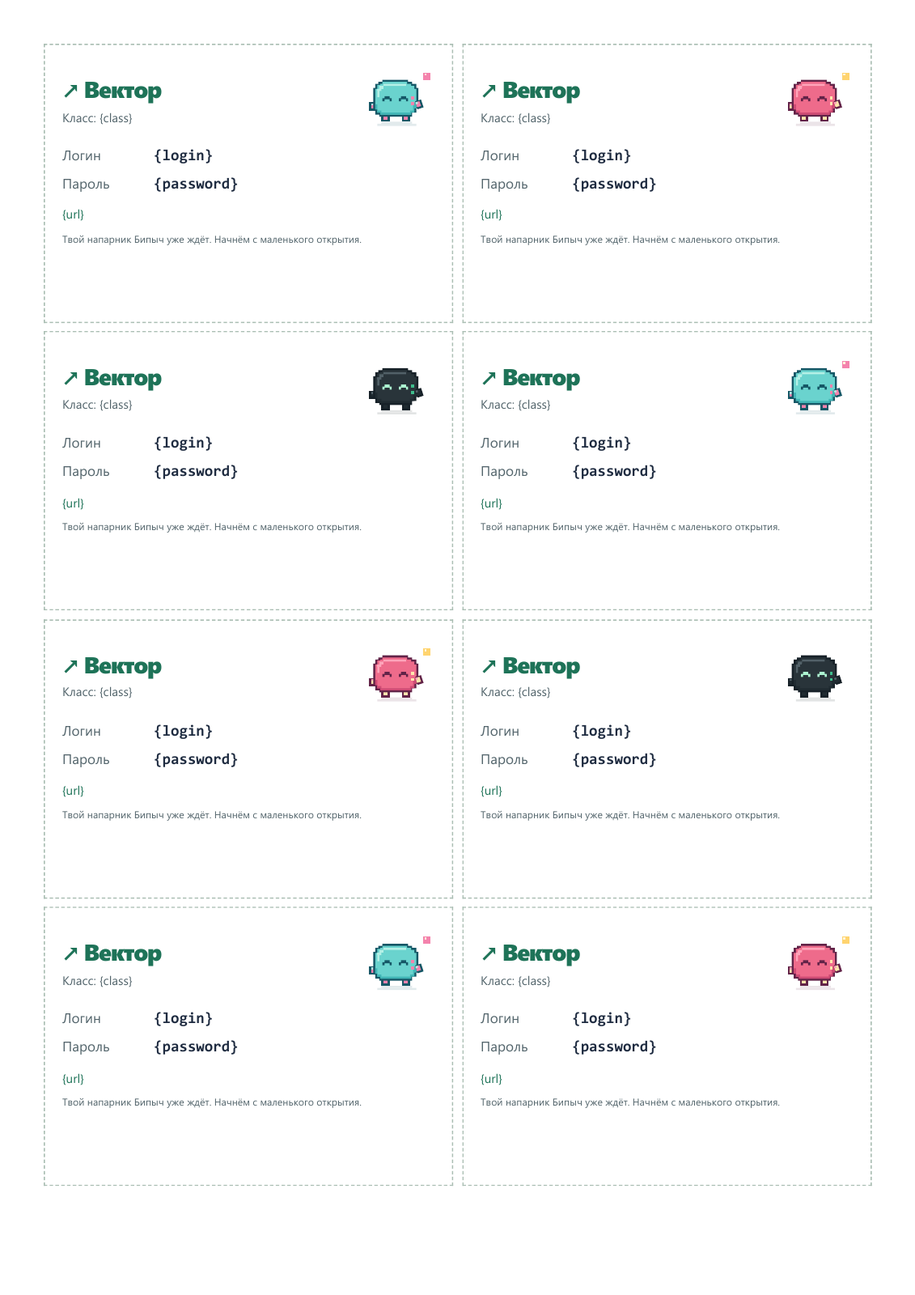
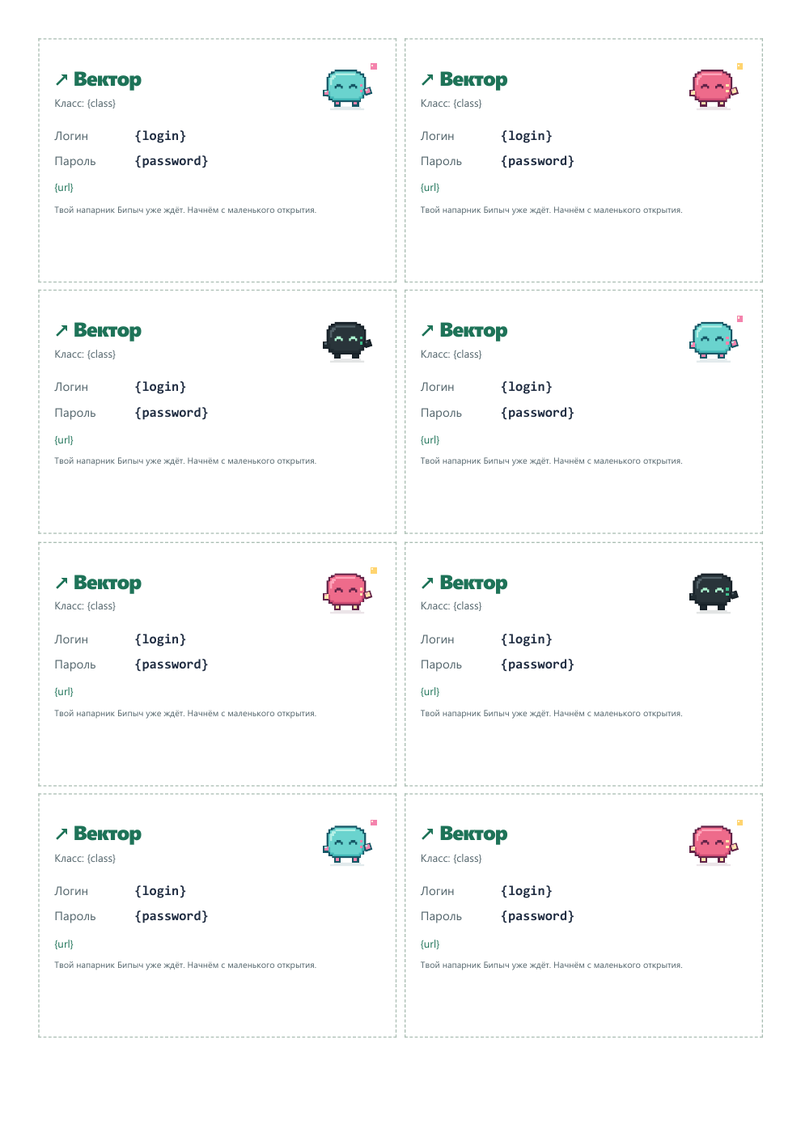
Refine thinking and pride motion with pixel headwear and open net mesh

diff --git a/styles/drobik.css b/styles/drobik.css
@@ -1,5 +1,5 @@
 /* Бипыч: isolated styles; do not override the host application. */
-.bipych{--bipych-size:96px;--bipych-hop:-7px;--bipych-accent:#F483AD;--bipych-outline:#155766;display:inline-flex;position:relative;vertical-align:middle;flex-direction:column;align-items:center;width:var(--bipych-size);max-width:100%;isolation:isolate;line-height:1.3;font-family:inherit}
+.bipych{--bipych-size:96px;--bipych-hop:-7px;--bipych-think-speed:3.6s;--bipych-proud-speed:3.2s;--bipych-accent:#F483AD;--bipych-outline:#155766;display:inline-flex;position:relative;vertical-align:middle;flex-direction:column;align-items:center;width:var(--bipych-size);max-width:100%;isolation:isolate;line-height:1.3;font-family:inherit}
 .bipych *{box-sizing:border-box}
 .bipych-picture,.bipych-svg{display:block;width:100%;aspect-ratio:1;overflow:visible}
 .bipych-svg [hidden]{display:none}
@@ -7,7 +7,7 @@
 .bipych-actor{transform-origin:50% 100%}
 .bipych-shadow{opacity:.12}
 [data-skin=orbit] .bipych[data-color=black] .bipych-outline{stroke:#77909A;stroke-width:1}
-.bipych-blush,.bipych-question,.bipych-zzz,.bipych-confetti,.bipych-eyes-happy,.bipych-eyes-sleep,.bipych-net{display:none}
+.bipych-blush,.bipych-question,.bipych-zzz,.bipych-thought,.bipych-pride,.bipych-confetti,.bipych-eyes-happy,.bipych-eyes-sleep,.bipych-net{display:none}
 .bipych-hand-right{transform-box:view-box;transform-origin:116px 90px}
 .bipych-net[data-equipped=true]{display:block}
 .bipych[data-state=idle] .bipych-actor{animation:bipych-breathe 4s steps(3,end) infinite}
@@ -16,15 +16,24 @@
 .bipych[data-state=happy] .bipych-eyes-happy,.bipych[data-state=celebrate] .bipych-eyes-happy,.bipych[data-state=proud] .bipych-eyes-happy,.bipych[data-state=sleep] .bipych-eyes-sleep{display:block}
 .bipych[data-state=happy] .bipych-actor{animation:bipych-hop 1.4s steps(4,end) infinite}
 .bipych[data-state=happy] .bipych-hand-right{transform:translateY(-8px) rotate(-18deg)}
-.bipych[data-state=thinking] .bipych-eyes-normal{transform:translate(2px,-2px)}
-.bipych[data-state=thinking] .bipych-hand-right{transform:translate(-8px,-18px) rotate(-25deg)}
-.bipych[data-state=thinking] .bipych-satellite{animation:bipych-pixel-think 1.8s steps(3,end) infinite}
+.bipych[data-state=thinking] .bipych-actor{transform:translateY(-1px) rotate(-2deg);animation:bipych-think-body var(--bipych-think-speed) steps(5,end) infinite}
+.bipych[data-state=thinking] .bipych-eyes-normal{transform:translate(-3px,-3px);animation:bipych-think-eyes var(--bipych-think-speed) steps(1,end) infinite}
+.bipych[data-state=thinking] .bipych-hand-left{transform:translate(10px,-12px);animation:bipych-think-hand var(--bipych-think-speed) steps(4,end) infinite}
+.bipych[data-state=thinking] .bipych-hand-right{transform:translate(2px,-3px)}
+.bipych[data-state=thinking] .bipych-satellite{animation:bipych-pixel-think var(--bipych-think-speed) steps(4,end) infinite}
+.bipych[data-state=thinking] .bipych-thought{display:block}
+.bipych-thought-dot{animation:bipych-thought var(--bipych-think-speed) steps(3,end) infinite;transform-box:fill-box;transform-origin:center}
+.bipych-thought-dot-1{animation-delay:-.4s}.bipych-thought-dot-2{animation-delay:-.8s}
 .bipych[data-state=confused] .bipych-actor{transform:rotate(-7deg)}
 .bipych[data-state=confused] .bipych-question{display:block;animation:bipych-question 2s steps(2,end) infinite}
 .bipych[data-state=confused] .bipych-eyes-normal{transform:translateY(-3px)}
-.bipych[data-state=proud] .bipych-actor{transform:translateY(-3px)}
-.bipych[data-state=proud] .bipych-hand-left{transform:translate(-2px,-10px) rotate(30deg)}
+.bipych[data-state=proud] .bipych-actor{transform:translateY(-3px);animation:bipych-proud-body var(--bipych-proud-speed) steps(5,end) infinite}
+.bipych[data-state=proud] .bipych-hand-left{transform:translate(-2px,-16px) rotate(8deg);animation:bipych-proud-hand var(--bipych-proud-speed) steps(5,end) infinite}
 .bipych[data-state=proud] .bipych-hand-right{transform:translate(2px,-10px) rotate(-30deg)}
+.bipych[data-state=proud] .bipych-pride{display:block}
+.bipych-pride-star{animation:bipych-proud-glint var(--bipych-proud-speed) steps(2,end) infinite;transform-box:fill-box;transform-origin:center}
+.bipych-pride-star-1{animation-delay:-.3s}
+.bipych[data-state=proud] .bipych-satellite{animation:bipych-proud-pixel var(--bipych-proud-speed) steps(4,end) infinite}
 .bipych[data-state=shy] .bipych-blush{display:block}
 .bipych[data-state=shy] .bipych-eyes-normal{transform:translate(-4px,4px)}
 .bipych[data-state=shy] .bipych-actor{transform:rotate(4deg)}
@@ -46,7 +55,7 @@
 .bipych[data-state=sleep] .bipych-zzz{display:block}
 .bipych[data-state=sleep] .bipych-satellite{opacity:.35;animation:none}
 .bipych-satellite{animation:bipych-float 3s steps(4,end) infinite}
-.bipych[data-age=senior]{--bipych-hop:-3px}
+.bipych[data-age=senior]{--bipych-hop:-3px;--bipych-think-speed:4s;--bipych-proud-speed:4s}
 .bipych[data-age=senior] .bipych-actor{animation-duration:4s}
 .bipych-charge{display:flex;align-items:center;justify-content:center;gap:6px;width:100%;color:var(--ink,#1E2B40);font-size:11px;font-weight:700;line-height:1.3}
 .bipych-charge-cells{display:grid;grid-template-columns:repeat(var(--bipych-goal,5),minmax(0,1fr));gap:2px;flex:1;max-width:96px}
@@ -62,9 +71,17 @@
 @keyframes bipych-hop{0%,65%,100%{transform:translateY(0)}30%{transform:translateY(var(--bipych-hop))}}
 @keyframes bipych-float{0%,100%{transform:translateY(0)}50%{transform:translateY(-4px)}}
 @keyframes bipych-pixel-think{0%,100%{transform:translate(0,0);opacity:1}50%{transform:translate(-4px,-4px);opacity:.6}}
+@keyframes bipych-think-body{0%,100%{transform:translate(0,0) rotate(-2deg)}25%{transform:translate(-2px,-2px) rotate(-2deg)}55%{transform:translate(2px,-1px) rotate(2deg)}80%{transform:translate(0,0) rotate(0)}}
+@keyframes bipych-think-eyes{0%,20%,100%{transform:translate(-3px,-3px)}35%,65%{transform:translate(3px,-4px)}80%,90%{transform:translate(0,0)}}
+@keyframes bipych-think-hand{0%,100%{transform:translate(10px,-12px) rotate(-8deg)}25%,45%{transform:translate(12px,-16px) rotate(6deg)}65%,80%{transform:translate(8px,-10px) rotate(-4deg)}}
+@keyframes bipych-thought{0%,10%{opacity:.15;transform:translateY(2px)}30%,65%{opacity:1;transform:translateY(0)}90%,100%{opacity:.15;transform:translateY(-2px)}}
+@keyframes bipych-proud-body{0%,100%{transform:translateY(-2px)}20%,40%{transform:translateY(-6px)}55%{transform:translateY(-3px) rotate(-2deg)}70%{transform:translateY(-2px) rotate(2deg)}85%{transform:translateY(-3px)}}
+@keyframes bipych-proud-hand{0%,100%{transform:translate(-2px,-6px) rotate(18deg)}20%,45%{transform:translate(-2px,-24px) rotate(8deg)}60%{transform:translate(-2px,-6px) rotate(18deg)}75%{transform:translate(-2px,-16px) rotate(8deg)}}
+@keyframes bipych-proud-glint{0%,10%,65%,100%{opacity:0;transform:translateY(2px) scale(.5)}20%,45%{opacity:1;transform:translateY(-2px) scale(1)}}
+@keyframes bipych-proud-pixel{0%,100%{transform:translateY(0)}20%,40%{transform:translateY(-8px)}65%{transform:translateY(-2px)}}
 @keyframes bipych-question{0%,100%{transform:translateY(0)}50%{transform:translateY(-3px)}}
 @keyframes bipych-catch{0%,100%{transform:translate(0,0)}45%{transform:translate(2px,-4px)}}
 @keyframes bipych-dance{0%,100%{transform:translateY(0) rotate(-3deg)}25%{transform:translateY(var(--bipych-hop)) rotate(3deg)}60%{transform:translateY(0) rotate(3deg)}80%{transform:translateY(var(--bipych-hop)) rotate(-3deg)}}
 @keyframes bipych-confetti{0%{transform:translateY(-3px);opacity:0}20%{opacity:1}85%{opacity:1}100%{transform:translateY(10px) rotate(90deg);opacity:0}}
 @keyframes bipych-sleep{0%,100%{transform:translateY(4px) rotate(5deg)}50%{transform:translateY(2px) rotate(5deg)}}
-@media(prefers-reduced-motion:reduce){.bipych *,.bipych *::before,.bipych *::after{animation:none!important;transition:none!important}.bipych-confetti{opacity:1}.bipych-spark{opacity:1}}
+@media(prefers-reduced-motion:reduce){.bipych *,.bipych *::before,.bipych *::after{animation:none!important;transition:none!important}.bipych-confetti,.bipych-spark,.bipych-thought-dot,.bipych-pride-star{opacity:1}}

diff --git a/content/drobik.js b/content/drobik.js
@@ -70,20 +70,34 @@
     var hats = {
       'hat-cap': path('M38 30H48V22H76V26H92V34H108V38H38Z', accent) + rect(48, 26, 28, 6, cream),
       'hat-beanie': path('M40 34V24H46V18H84V24H92V34Z', '#B39BE3') + rect(36, 30, 60, 8, ink) + rect(60, 10, 12, 8, accent),
-      'hat-bucket': path('M44 20H86L90 32H98V38H34V32H40Z', '#83B9DC') + rect(46, 26, 38, 4, cream),
+      'hat-bucket': path('M44 16H84V20H88V28H92V32H100V40H32V32H36V28H40V20H44Z', ink) +
+        path('M44 20H84V28H88V32H92V36H40V32H44Z', '#83B9DC') + rect(44, 28, 40, 4, cream),
       'hat-crown': path('M40 22H48V28H56V18H64V28H72V18H80V28H88V22H96V38H40Z', '#F2CC63') + rect(60, 30, 8, 4, accent),
       'hat-bow': path('M42 24H54V28H66V24H80V40H66V36H54V40H42Z', accent) + rect(56, 28, 8, 8, ink),
       'hat-headphones': path('M24 58V32H32V24H100V32H112V60H104V36H98V32H38V36H32V58Z', ink) + rect(20, 50, 12, 22, accent) + rect(104, 50, 12, 22, accent),
       'hat-beret': path('M34 30H42V22H54V18H88V22H98V32H90V38H42V34H34Z', '#D26C73') + rect(64, 12, 8, 8, ink),
-      'hat-leaf': path('M62 34V22H70V14H94V22H86V30H74V38Z', '#7EA56F') + rect(62, 30, 8, 8, ink),
-      'hat-graduate': path('M28 24L66 12L104 24L66 36Z', ink) + rect(48, 30, 36, 8, ink) + rect(98, 24, 4, 22, '#EDBF50') + rect(94, 44, 12, 6, '#EDBF50'),
-      'hat-captain': path('M34 24H42V18H90V24H98V32H90V38H40V32H34Z', cream) + rect(38, 30, 56, 8, ink) + rect(62, 22, 8, 8, '#E7BC4C')
+      'hat-leaf': path('M60 40V24H68V16H76V12H96V24H88V28H80V32H72V40Z', ink) +
+        path('M64 32V24H72V20H80V16H92V20H84V24H76V28H68V32Z', '#8DBB79'),
+      'hat-graduate': rect(48, 30, 40, 10, ink) +
+        path('M64 8H72V12H84V16H96V20H108V28H96V32H84V36H72V40H64V36H52V32H40V28H28V20H40V16H52V12H64Z', ink) +
+        path('M64 12H72V16H84V20H96V24H84V28H72V32H64V28H52V24H40V20H52V16H64Z', '#567B7D') +
+        rect(92, 28, 4, 16, '#EDBF50') + rect(88, 44, 8, 8, '#EDBF50'),
+      'hat-captain': path('M40 12H92V16H100V28H96V36H88V40H40V36H32V20H36V16H40Z', ink) +
+        path('M40 20H44V16H88V20H96V26H40Z', cream) + rect(40, 28, 52, 8, ink) +
+        path('M60 20H72V24H68V28H64V24H60Z', '#E7BC4C')
     };
     return hats[id] || '';
   }
   function svg(p, map, uid) {
     var netIndex = COSMETICS.filter(function (c) { return c.slot === 'net'; }).findIndex(function (c) { return c.id === map.net; });
     var netColor = NETS[netIndex] || NETS[0];
+    var squareNet = map.net === 'net-square';
+    var netRim = squareNet
+      ? 'M100 36H132V68H100ZM104 40H128V64H104Z'
+      : 'M110 32H122V36H126V40H130V60H126V64H122V68H110V64H106V60H102V40H106V36H110ZM110 36H122V40H126V60H122V64H110V60H106V40H110Z';
+    var netMesh = squareNet
+      ? 'M112 40H113V64H112ZM119 40H120V64H119ZM108 46H124V47H108ZM108 57H124V58H108Z'
+      : 'M112 38H113V62H112ZM119 38H120V62H119ZM108 44H124V45H108ZM108 55H124V56H108Z';
     var satellite = map.antenna || (map.screen === 'screen-black' ? '' : 'pixel-sun');
     var limb = map.screen === 'screen-black' ? p[3] : p[4];
     var satColor = PIXELS[satellite] || p[4];
@@ -99,7 +113,6 @@
       '<g class="bipych-actor">' +
       '<g class="bipych-foot bipych-foot-left">' + rect(40, 102, 16, 14, p[0]) + rect(44, 104, 8, 8, limb) + '</g>' +
       '<g class="bipych-foot bipych-foot-right">' + rect(80, 102, 16, 14, p[0]) + rect(84, 104, 8, 8, limb) + '</g>' +
-      '<g class="bipych-hand bipych-hand-left">' + rect(16, 78, 12, 16, p[0]) + rect(20, 80, 8, 10, limb) + rect(20, 80, 4, 4, p[2]) + '</g>' +
       path(OUTLINE, p[0], 'bipych-outline') + path(INSIDE, p[1]) +
       path('M32 68V52H36V46H44V42H88V46H44V50H40V56H36V68Z', p[2]) +
       path('M32 88V94H40V98H96V94H102V78H108V90H104V98H98V102H38V98H32V92H28V82H32Z', p[3]) +
@@ -109,16 +122,22 @@
       '<g class="bipych-eyes bipych-eyes-sleep">' + sleeping + '</g>' +
       '<g class="bipych-blush">' + rect(36, 80, 10, 4, p[4]) + rect(88, 80, 10, 4, p[4]) + '</g>' +
       rect(98, 66, 6, 6, p[4]) + rect(98, 78, 6, 6, p[4]) +
+      '<g class="bipych-hand bipych-hand-left">' + rect(16, 78, 12, 16, p[0]) + rect(20, 80, 8, 10, limb) + rect(20, 80, 4, 4, p[2]) + '</g>' +
+      '<g class="bipych-hat">' + hat(map.hat, p) + '</g>' +
       '<g class="bipych-hand bipych-hand-right">' +
       '<g class="bipych-net"' + (map.net ? ' data-equipped="true"' : '') + '>' +
-      rect(114, 62, 4, 30, netColor, 'bipych-net-handle') +
-      path('M108 36H124V40H128V44H132V60H128V64H124V68H108V64H104V60H100V44H104V40H108Z', netColor, 'bipych-net-rim') +
-      path('M108 40H124V44H128V60H124V64H108V60H104V44H108Z', p[2]) +
-      path('M110 42H112V62H110ZM120 42H122V62H120ZM106 46H126V48H106ZM106 56H126V58H106Z', netColor, 'bipych-net-mesh') + '</g>' +
+      rect(114, 64, 4, 28, '#806247', 'bipych-net-handle') +
+      '<path d="' + netRim + '" fill="' + netColor + '" fill-rule="evenodd" stroke="' + p[0] + '" stroke-width="1" class="bipych-net-rim"/>' +
+      '<path d="' + netMesh + '" fill="#6A9284" opacity=".65" class="bipych-net-mesh"/></g>' +
       rect(108, 82, 16, 16, p[0], 'bipych-grip') + rect(111, 84, 10, 10, limb) + rect(112, 84, 4, 4, p[2]) + '</g>' +
-      '<g class="bipych-hat">' + hat(map.hat, p) + '</g>' +
       '<g class="bipych-question">' + path('M12 32H28V36H32V44H24V52H18V42H26V38H12ZM18 58H24V64H18Z', p[4]) + '</g>' +
       '<g class="bipych-zzz">' + path('M100 16H116V20H112V24H108V28H116V32H100V28H104V24H108V20H100Z', p[4]) + '</g>' +
+      '<g class="bipych-thought">' + rect(16, 28, 4, 4, p[0], 'bipych-thought-dot bipych-thought-dot-0') +
+      rect(20, 20, 6, 6, p[4], 'bipych-thought-dot bipych-thought-dot-1') +
+      rect(26, 10, 8, 8, p[0], 'bipych-thought-dot bipych-thought-dot-2') + '</g>' +
+      '<g class="bipych-pride">' +
+      path('M10 38H14V42H18V46H14V50H10V46H6V42H10Z', '#E6B74F', 'bipych-pride-star bipych-pride-star-0') +
+      path('M26 16H30V20H34V24H30V28H26V24H22V20H26Z', '#E6B74F', 'bipych-pride-star bipych-pride-star-1') + '</g>' +
       '</g>' +
       '<g class="bipych-satellite"' + (!satellite ? ' hidden="hidden"' : '') + '>' +
       (satellite === 'pixel-star'

diff --git a/assets/drobik/demo.js b/assets/drobik/demo.js
@@ -5,9 +5,9 @@
   var descriptions = [
     'Осматривается и моргает. Всё спокойно.',
     'Подпрыгивает: получилось!',
-    'Ищет идею. Пиксель-спутник тоже задумался.',
+    'Смотрит по сторонам, чешет щёку и собирает мысли по пикселям.',
     'Кажется, что-то не сходится. Посмотрим ещё раз?',
-    'Руки в боки. Хорошо поработали!',
+    'Выпрямился, поднял кулачок: вот это мы разобрались!',
     'Бип… Я тоже иногда путаюсь.',
     'Заметил жучка и приготовил сачок.',
     'Вот это находка! Можно немного потанцевать.',
@@ -68,6 +68,8 @@
     var holder = document.createElement('div'); byId('scales').appendChild(holder);
     make(holder, { size: size, cosmetics: { screen: 'screen-turquoise' } });
   });
+  var requestedState = new URLSearchParams(location.search).get('state');
+  if (lib.STATES.indexOf(requestedState) >= 0) setState(requestedState);
   document.querySelectorAll('[data-palette]').forEach(function (button) {
     button.addEventListener('click', function () {
       palette = button.dataset.palette;
@@ -131,7 +133,7 @@
   byId('cycle').addEventListener('click', function () {
     if (cycle) return stopCycle();
     byId('cycle').setAttribute('aria-pressed', 'true'); byId('cycle').textContent = 'Остановить';
-    cycle = setInterval(function () { setState(lib.STATES[(index + 1) % lib.STATES.length]); }, 2200);
+    cycle = setInterval(function () { setState(lib.STATES[(index + 1) % lib.STATES.length]); }, 4500);
   });
   var reduced = window.matchMedia('(prefers-reduced-motion: reduce)');
   function updateMotion() {

diff --git a/tests/codex_visual.py b/tests/codex_visual.py
@@ -73,6 +73,51 @@ async def main():
         check("invalid state falls back to idle", await page.evaluate("""() => {
             contractPet.setState('<script>'); return document.querySelector('#contract-host .bipych').dataset.state === 'idle';
         }"""))
+        check("thinking moves body, gaze and paw even without satellite", await page.evaluate("""() => {
+            contractPet.setCosmetics({screen:'screen-black'}); contractPet.setState('thinking');
+            const root=document.querySelector('#contract-host .bipych');
+            const parts=['.bipych-actor','.bipych-eyes-normal','.bipych-hand-left'];
+            const animations=root.getAnimations({subtree:true});
+            animations.forEach(a=>{a.pause();a.currentTime=0;});
+            const before=parts.map(s=>getComputedStyle(root.querySelector(s)).transform);
+            animations.forEach(a=>a.currentTime=1600);
+            const after=parts.map(s=>getComputedStyle(root.querySelector(s)).transform);
+            return before.every((v,i)=>v!==after[i])
+                && getComputedStyle(root.querySelector('.bipych-thought')).display!=='none'
+                && root.querySelectorAll('.bipych-thought-dot').length===3;
+        }"""))
+        check("thinking paw remains visibly in front of the cheek", await page.evaluate("""() => {
+            const root=document.querySelector('#contract-host .bipych');
+            root.scrollIntoView({block:'center'});
+            const hand=root.querySelector('.bipych-hand-left'),rect=hand.querySelector('rect');
+            const point=new DOMPoint(+rect.getAttribute('x')+6,+rect.getAttribute('y')+8).matrixTransform(rect.getScreenCTM());
+            return hand.contains(document.elementFromPoint(point.x,point.y));
+        }"""))
+        check("proud has fist gesture and pixel glints distinct from confetti", await page.evaluate("""() => {
+            contractPet.setState('proud');
+            const root=document.querySelector('#contract-host .bipych');
+            const animations=root.getAnimations({subtree:true});
+            const parts=['.bipych-actor','.bipych-hand-left'];
+            animations.forEach(a=>{a.pause();a.currentTime=0;});
+            const before=parts.map(s=>getComputedStyle(root.querySelector(s)).transform);
+            const dim=getComputedStyle(root.querySelector('.bipych-pride-star')).opacity;
+            animations.forEach(a=>a.currentTime=1000);
+            return parts.every((s,i)=>before[i]!==getComputedStyle(root.querySelector(s)).transform)
+                && dim!==getComputedStyle(root.querySelector('.bipych-pride-star')).opacity
+                && getComputedStyle(root.querySelector('.bipych-confetti')).display==='none';
+        }"""))
+        check("reworked headwear uses only orthogonal pixel edges", await page.evaluate("""() => {
+            for(const hat of ['hat-bucket','hat-graduate','hat-captain','hat-leaf']){
+                contractPet.setCosmetics({hat});contractPet.setState('idle');
+                const paths=[...document.querySelectorAll('#contract-host .bipych-hat path')];
+                if(!paths.length || paths.some(p=>/[LCQAST]/i.test(p.getAttribute('d'))))return false;
+            }
+            contractPet.setCosmetics({hat:'hat-captain'});
+            const paths=document.querySelectorAll('#contract-host .bipych-hat path');
+            const outer=paths[0].getBBox(),inner=paths[1].getBBox();
+            return outer.x<inner.x && outer.y<inner.y && outer.width>inner.width
+                && paths[0].getAttribute('fill')!==paths[1].getAttribute('fill');
+        }"""))
         check("charge goals 3–10 and exact filled cells", await page.evaluate("""() => {
             for (let goal = 3; goal <= 10; goal++) {
                 for (let done = 0; done <= goal; done++) {
@@ -134,6 +179,21 @@ async def main():
             window.cosmeticCombinationCount = total;
             return total === 26136;
         }"""))
+        check("all shop net previews match the equipped net geometry", await page.evaluate("""() => {
+            if(!window.VEKTOR_COLLECTION)return true;
+            const host=document.createElement('div');document.body.append(host);
+            VEKTOR_COLLECTION.renderWorkshop(host,{
+                stars:100,owned:VEKTOR_DROBIK.COSMETICS.map(c=>c.id),equipped:{screen:'screen-black'}
+            });
+            host.querySelector('[data-slot=net]').click();
+            let ok=true;
+            for(const c of VEKTOR_DROBIK.COSMETICS.filter(c=>c.slot==='net')){
+                contractPet.setCosmetics({screen:'screen-black',net:c.id});
+                const card=[...host.querySelectorAll('[data-item]')].find(el=>el.dataset.item===c.id);
+                if(!card || card.querySelector('.bipych-net').innerHTML!==document.querySelector('#contract-host .bipych-net').innerHTML){ok=false;break;}
+            }
+            VEKTOR_COLLECTION.renderBugs(host,{bugs:[]});host.remove();return ok;
+        }"""))
         # Destroy cancels the celebration timer and is safe to call twice.
         check("destroy preserves sibling DOM and methods become inert", await page.evaluate("""() => {
             contractPet.setCharge(0,5); contractPet.setCharge(5,5);
@@ -155,9 +215,12 @@ async def main():
             const rim=box('.bipych-net-rim'),mesh=box('.bipych-net-mesh');
             const handle=box('.bipych-net-handle'),grip=box('.bipych-grip');
             const centers=[rim,mesh,handle,grip].map(b=>b.x+b.width/2);
-            return centers.every(x=>x===116) && rim.width===rim.height
+            return centers.every(x=>x===116) && rim.height>=rim.width
                 && mesh.y+mesh.height/2===rim.y+rim.height/2
-                && root.querySelector('.bipych-net').parentElement.classList.contains('bipych-hand-right');
+                && root.querySelector('.bipych-net-rim').getAttribute('fill-rule')==='evenodd'
+                && !root.querySelector('.bipych-net rect:not(.bipych-net-handle)')
+                && root.querySelector('.bipych-net').parentElement.classList.contains('bipych-hand-right')
+                && !!(root.querySelector('.bipych-hat').compareDocumentPosition(root.querySelector('.bipych-net')) & Node.DOCUMENT_POSITION_FOLLOWING);
         }"""))
         await page.check("#senior")
         check("senior age mode", await page.locator("#main-bipych .bipych").get_attribute("data-age") == "senior")

diff --git a/docs/art/ACCEPTANCE.md b/docs/art/ACCEPTANCE.md
@@ -1,0 +1,18 @@
+# Проверка моей части ТЗ
+
+Область работы — раздел 12 исходного ТЗ. Внешний образ уточнён владельцем: пиксельный Бипыч, три выбранных цвета, без круглого индикатора на животе.
+
+| Пункт | Что подготовлено | Проверка |
+| --- | --- | --- |
+| CX-1 | Концепты и выбранные малиновая, бирюзовая, чёрная версии | Выбор владельца сохранён в bipych/selected |
+| CX-2 | 9 состояний, анимации, 3 цвета, junior/senior, заряд и реплики | Браузерный тест, кадры анимаций, 4 оформления, 32 px, reduced motion |
+| CX-3 | 21 карточка жучка, 20 уникальных рисунков, 3 статуса | 63 корректных SVG, неизвестные ключи, общий Складыватель |
+| CX-4 | 12 интересов | Галерея при 24 и 40 px, уникальные SVG |
+| CX-5 | Коллекция, звание, фильтры, истории побед, пустое состояние | 1440, 768, 390 px и подготовленные данные |
+| CX-6 | 30 предметов, примерочная, магазин, свои вещи, покупка и экипировка | Все 26136 сочетаний состояния и аксессуаров; сохранение, две вкладки, отсутствие двойного списания |
+| CX-7 | board.html, 3 слайда, Бипыч, стрелки, ответы, fullscreen | 1280×720, основной текст от 40 px, безопасный HTML |
+| CX-8 | Лендинг и 7 сцен HTML-питча | Телефон, проектор, метрики «Скоро», реальные ссылки |
+| CX-9 | 24 наклейки A4 и 8 карточек входа с четырьмя метками | По одной странице A4 в Chrome; контрольные PDF и PNG |
+| CX-10 | Единая команда tests/codex_visual.py и отдельные наборы | 201 локальная проверка; установка команды в общий workflow остаётся интегратору |
+
+Общие файлы приложения, сервер и учебное ядро не изменены. Для слияния и подключения подготовлен HANDOFF.md. Ветки не слиты в main, PR по ограничению владельца не открыт.

diff --git a/docs/art/animation-v3/README.md b/docs/art/animation-v3/README.md
@@ -1,0 +1,11 @@
+# Доработка анимаций и пиксельных аксессуаров
+
+В «Думает» синхронно двигаются корпус, взгляд и лапка у щеки, появляются три пикселя мысли. Состояние читается у чёрной версии без спутника. В «Гордится» персонаж выпрямляется, поднимает кулачок и слегка кивает; на пике появляются две золотые пиксельные искры. Большое конфетти остаётся отдельным состоянием celebrate. Автоматическая смена состояний в демо замедлена до 4,5 секунды, чтобы жесты успевали проиграться.
+
+Панама, шапочка выпускника и листик построены ступенями без гладких диагоналей. Фуражка получила контур. После обратной связи владельца последняя версия выпускной шапочки и фуражки сохранена. Кепка не изменена.
+
+Сачок переработан в открытый пиксельный обод с прозрачной серединой, тонкой сеткой и простой ручкой. Сплошной фон удалён. Квадратный сачок сохраняет квадратную форму, остальные получили вытянутую ступенчатую форму. Головные уборы не перекрывают сачок поверх сетки. Каталог и надетый аксессуар используют один SVG; совпадение проверяется для всех десяти сачков.
+
+Контрольные листы показывают три фазы двух анимаций на трёх цветах и сочетания уборов с сачком. При reduced motion движения отключены, но поза, взгляд и пиксельные знаки состояния сохранены.
+
+Проверены движения, фактическая видимость лапки поверх щеки, пиксельная геометрия уборов, контур фуражки и совпадение предпросмотра с надетым предметом. Новые состояния и методы в публичный контракт не добавлялись.

diff --git a/docs/art/HANDOFF.md b/docs/art/HANDOFF.md
@@ -41,9 +41,9 @@
     node tests/game.test.js
     node tests/worker.test.mjs
 
-Отдельно проверены: анимации и геометрия сачка 46/46, рисунки 15/15, коллекция 54/54, покупки и сохранение гардеробной 31/31, доска 12/12, лендинг и питч 28/28, печать 10/10. Всего 196 проверок, общий запуск зелёный. Существующий e2e — 62/62; 27000 сгенерированных задач без ошибок, остальные модульные проверки зелёные.
+Отдельно проверены: анимации, пиксельная графика и геометрия сачка 51/51, рисунки 15/15, коллекция 54/54, покупки и сохранение гардеробной 31/31, доска 12/12, лендинг и питч 28/28, печать 10/10. Всего 201 проверка, общий запуск зелёный. Существующий e2e — 62/62; 27000 сгенерированных задач без ошибок, остальные модульные проверки зелёные. Соответствие пунктам CX-1…CX-10 перечислено в ACCEPTANCE.md.
 
-Восемь вариантов оформления демо анимаций проверены при 1440/390 px. Коллекция — также при 768 px. Каждый SVG состояния около 4 КБ; модуль персонажа с CSS и модуль рисунков вместе около 33 КБ, ниже лимита 400 КБ. Растровые концепты и снимки лежат только в docs/art и не загружаются продуктом.
+Восемь вариантов оформления демо анимаций проверены при 1440/390 px. Коллекция — также при 768 px. Каждый SVG состояния около 5 КБ; модуль персонажа с CSS и модуль рисунков вместе около 37 КБ, ниже лимита 400 КБ. Растровые концепты и снимки лежат только в docs/art и не загружаются продуктом.
 
 ## Что остаётся за интеграцией
 
